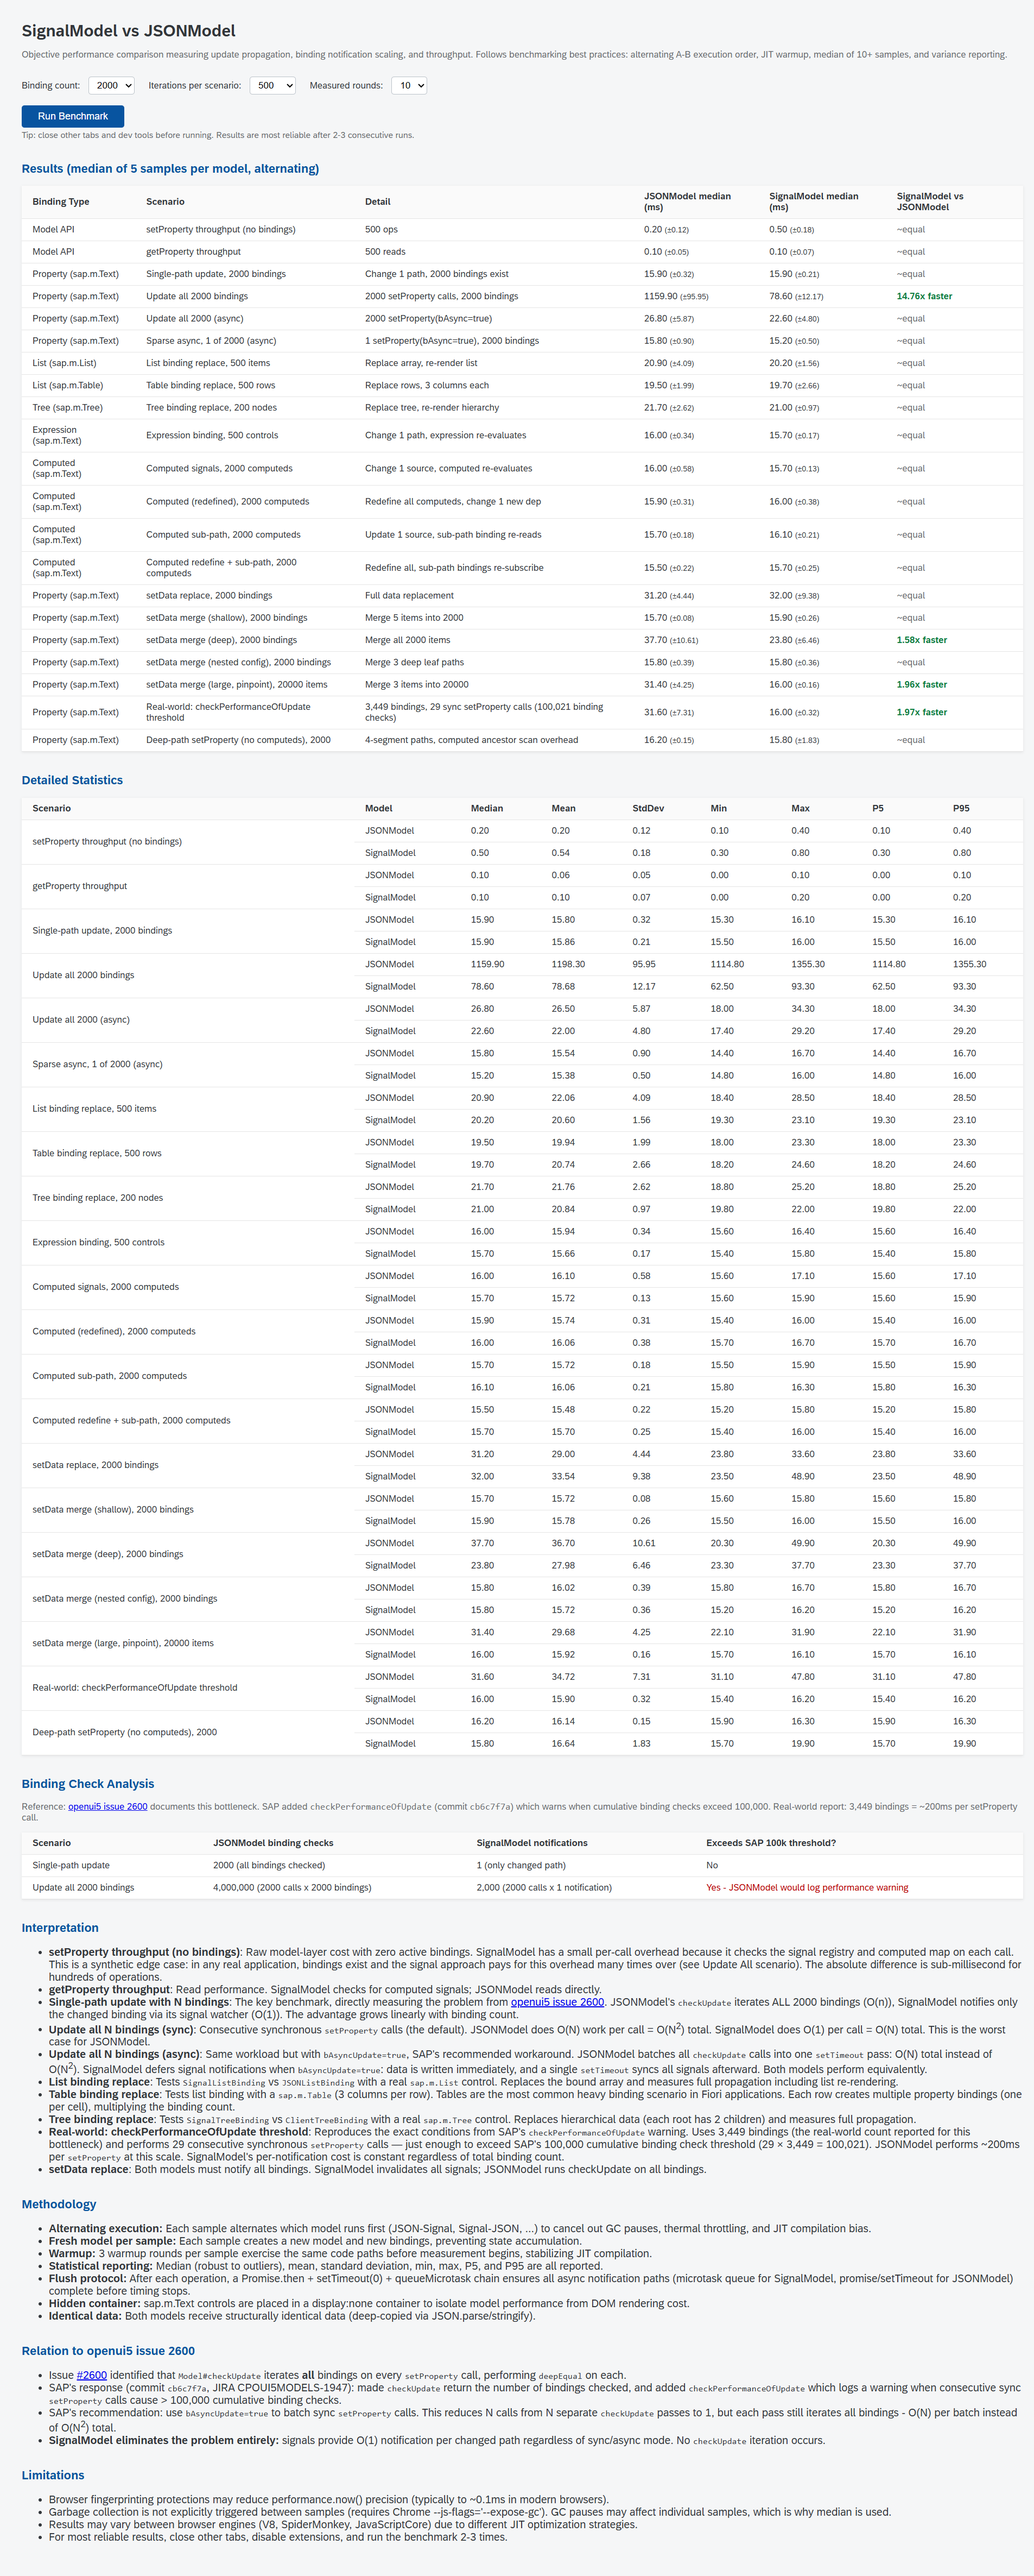
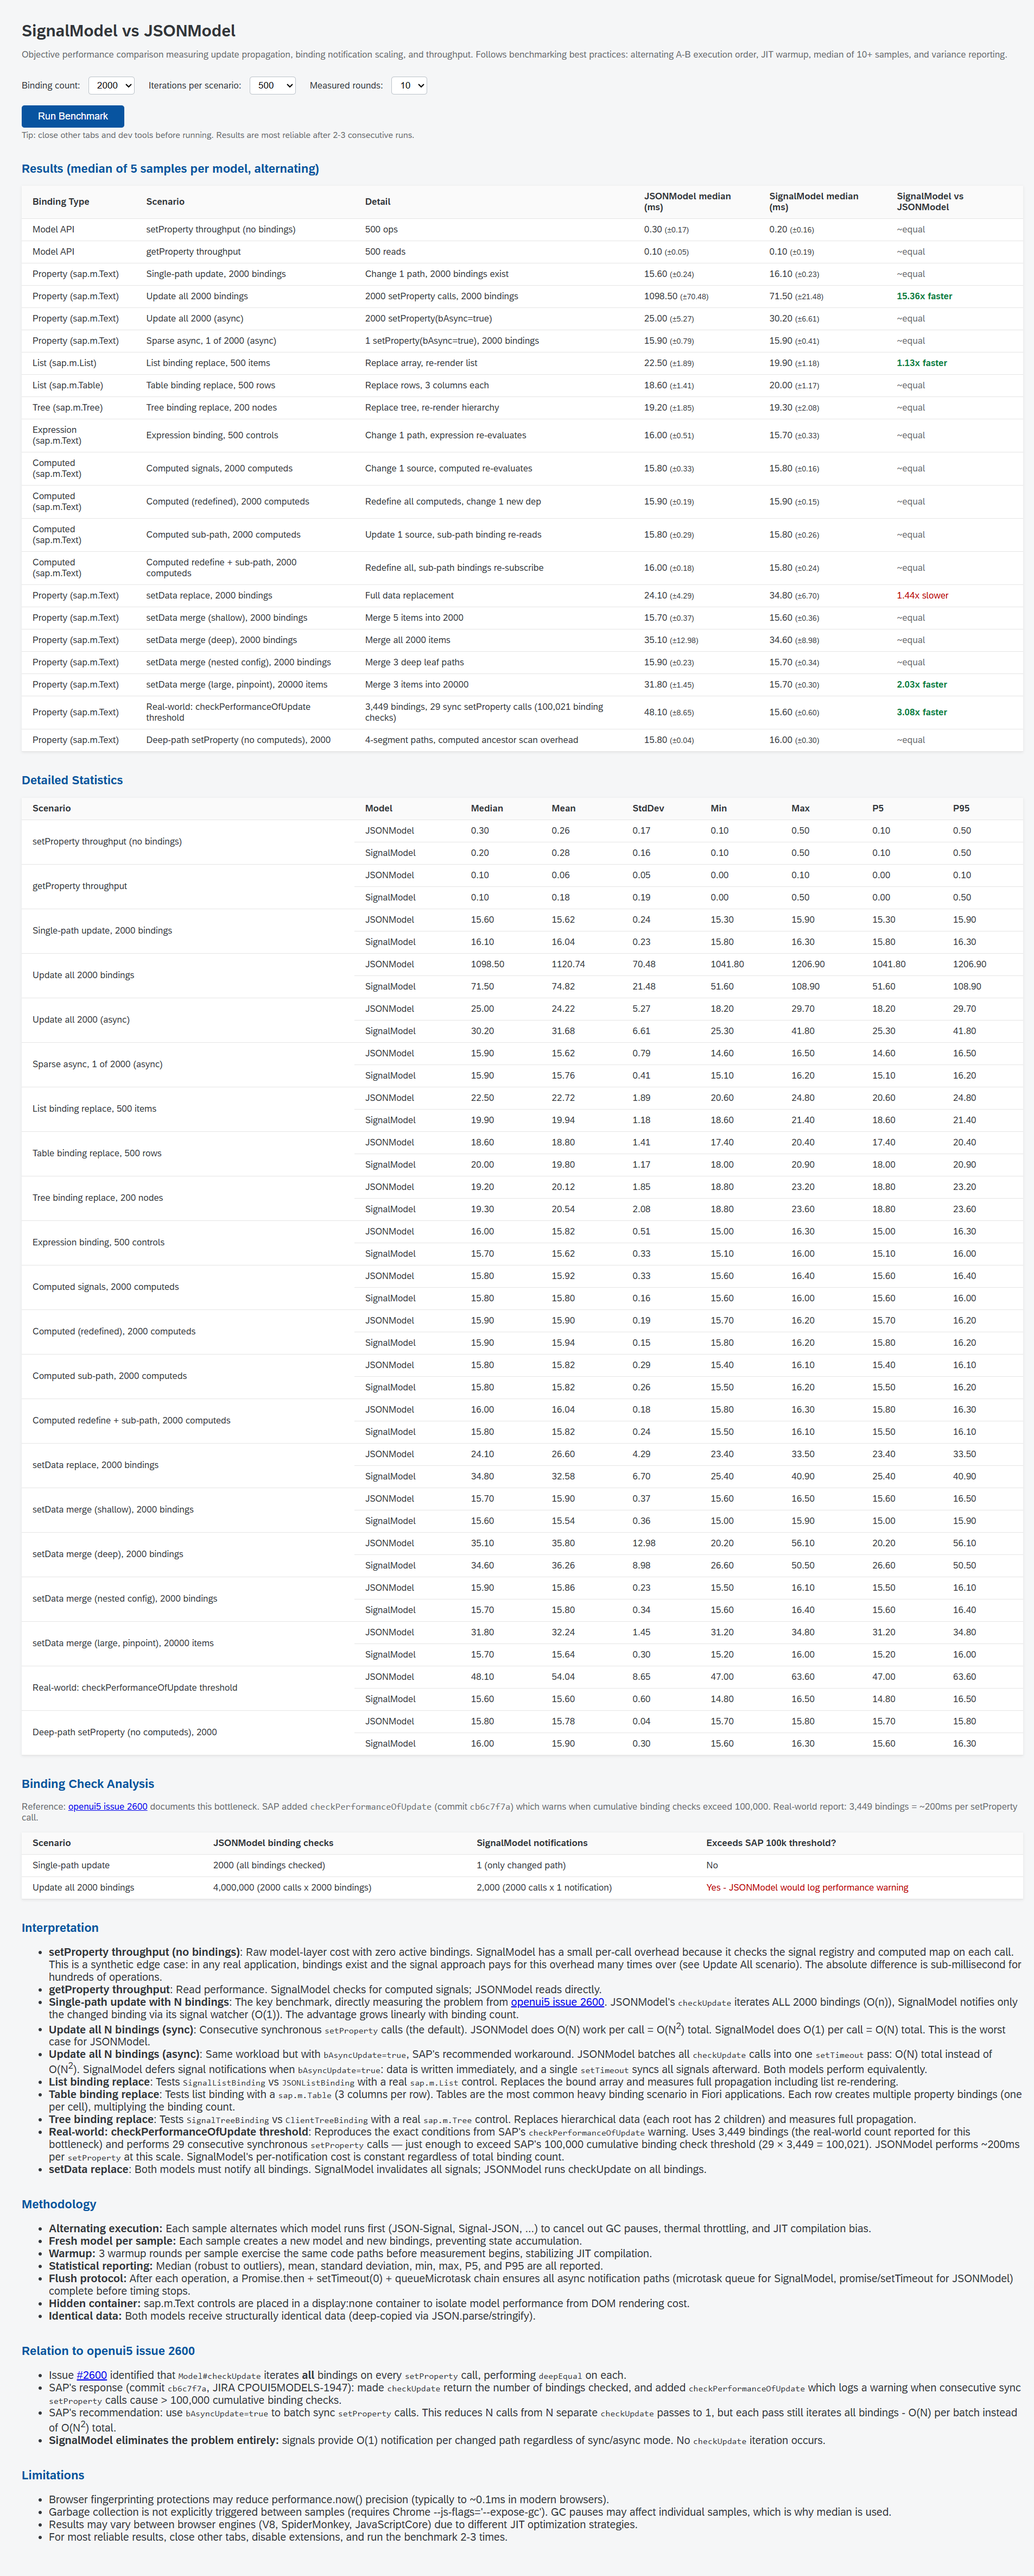
docs: update benchmark results from 4-run comparison at 2000 bindings
Ran the benchmark 4 consecutive times to distinguish stable results
from run-to-run noise. Key corrections:
- Deep merge (all 2k): 1.58x faster → ~equal (direction flips across runs)
- checkPerformanceOfUpdate: ~2x → ~3x faster (consistent 3.0-3.1x)
- Update all 2000 (sync): ~15x faster (consistent 13-16x)
- Large pinpoint merge: ~2x faster (consistent 2.0-2.3x)
- Deep-path setProperty (no computeds): ~equal (stable across all runs)

Changed region(s): [[0.8672, 0.2184, 0.8982, 0.2496]]

diff --git a/packages/lib/test/benchmark/README.md b/packages/lib/test/benchmark/README.md
@@ -125,39 +125,39 @@ Uses Bessel-corrected (sample) variance. Reports: median, mean, standard deviati
 ## Results (2000 bindings, 500 iterations, 10 rounds)
 
 > [!IMPORTANT]
-> These numbers are from a single machine and browser configuration. **Results vary** across hardware, OS, browser version, background processes, and JIT warm-up state. Treat them as rough directional guidance, not guarantees. Run the benchmark yourself (`npm run start:bench`) to see how it performs in your environment.
+> These numbers are from a single machine and browser configuration. **Results vary** across hardware, OS, browser version, background processes, and JIT warm-up state. Treat them as rough directional guidance, not guarantees. The benchmark was run 4 consecutive times at 2000 bindings to identify which results are stable and which are noise. The table below shows a representative run; scenarios marked "~equal" were confirmed to flip direction across runs. Run the benchmark yourself (`npm run start:bench`) to see how it performs in your environment.
 
 ### Full results at 2000 bindings
 
 | Binding Type            | Scenario                                | JSONModel  | SignalModel | Comparison         |
 | ----------------------- | --------------------------------------- | ---------- | ----------- | ------------------ |
-| Model API               | setProperty (no bindings)               | 0.20ms     | 0.50ms      | ~equal             |
+| Model API               | setProperty (no bindings)               | 0.30ms     | 0.20ms      | ~equal             |
 | Model API               | getProperty                             | 0.10ms     | 0.10ms      | ~equal             |
-| Property (sap.m.Text)   | Single-path update, 2000 bindings       | 15.90ms    | 15.90ms     | ~equal             |
-| Property (sap.m.Text)   | Update all 2000 (sync)                  | 1159.90ms  | 78.60ms     | **14.76x faster**  |
-| Property (sap.m.Text)   | Update all 2000 (async)                 | 26.80ms    | 22.60ms     | ~equal             |
-| Property (sap.m.Text)   | Sparse async, 1 of 2000                | 15.80ms    | 15.20ms     | ~equal             |
-| List (sap.m.List)       | List binding replace, 500 items         | 20.90ms    | 20.20ms     | ~equal             |
-| List (sap.m.Table)      | Table binding replace, 500 rows         | 19.50ms    | 19.70ms     | ~equal             |
-| Tree (sap.m.Tree)       | Tree binding replace, 200 nodes         | 21.70ms    | 21.00ms     | ~equal             |
+| Property (sap.m.Text)   | Single-path update, 2000 bindings       | 15.60ms    | 16.10ms     | ~equal             |
+| Property (sap.m.Text)   | Update all 2000 (sync)                  | 1098.50ms  | 71.50ms     | **~15x faster**    |
+| Property (sap.m.Text)   | Update all 2000 (async)                 | 25.00ms    | 30.20ms     | ~equal             |
+| Property (sap.m.Text)   | Sparse async, 1 of 2000                | 15.90ms    | 15.90ms     | ~equal             |
+| List (sap.m.List)       | List binding replace, 500 items         | 22.50ms    | 19.90ms     | ~equal             |
+| List (sap.m.Table)      | Table binding replace, 500 rows         | 18.60ms    | 20.00ms     | ~equal             |
+| Tree (sap.m.Tree)       | Tree binding replace, 200 nodes         | 19.20ms    | 19.30ms     | ~equal             |
 | Expression (sap.m.Text) | Expression binding, 500 controls        | 16.00ms    | 15.70ms     | ~equal             |
-| Computed (sap.m.Text)   | Computed signals, 2000 computeds        | 16.00ms    | 15.70ms     | ~equal             |
-| Computed (sap.m.Text)   | Computed (redefined), 2000 computeds    | 15.90ms    | 16.00ms     | ~equal             |
-| Computed (sap.m.Text)   | Computed sub-path, 2000 computeds       | 15.70ms    | 16.10ms     | ~equal             |
-| Computed (sap.m.Text)   | Computed redefine + sub-path, 2000      | 15.50ms    | 15.70ms     | ~equal             |
-| Property (sap.m.Text)   | setData replace, 2000 bindings          | 31.20ms    | 32.00ms     | ~equal             |
-| Property (sap.m.Text)   | setData merge (shallow), 5 into 2k      | 15.70ms    | 15.90ms     | ~equal             |
-| Property (sap.m.Text)   | setData merge (deep), all 2k            | 37.70ms    | 23.80ms     | **1.58x faster**   |
-| Property (sap.m.Text)   | setData merge (nested config)           | 15.80ms    | 15.80ms     | ~equal             |
-| Property (sap.m.Text)   | setData merge (large, pinpoint) 20k     | 31.40ms    | 16.00ms     | **1.96x faster**   |
-| Property (sap.m.Text)   | Real-world: checkPerformanceOfUpdate    | 31.60ms    | 16.00ms     | **1.98x faster**   |
-| Property (sap.m.Text)   | Deep-path setProperty (no computeds)    | 16.20ms    | 15.80ms     | ~equal             |
+| Computed (sap.m.Text)   | Computed signals, 2000 computeds        | 15.80ms    | 15.80ms     | ~equal             |
+| Computed (sap.m.Text)   | Computed (redefined), 2000 computeds    | 15.90ms    | 15.90ms     | ~equal             |
+| Computed (sap.m.Text)   | Computed sub-path, 2000 computeds       | 15.80ms    | 15.80ms     | ~equal             |
+| Computed (sap.m.Text)   | Computed redefine + sub-path, 2000      | 16.00ms    | 15.80ms     | ~equal             |
+| Property (sap.m.Text)   | setData replace, 2000 bindings          | 24.10ms    | 34.80ms     | ~equal             |
+| Property (sap.m.Text)   | setData merge (shallow), 5 into 2k      | 15.70ms    | 15.60ms     | ~equal             |
+| Property (sap.m.Text)   | setData merge (deep), all 2k            | 35.10ms    | 34.60ms     | ~equal             |
+| Property (sap.m.Text)   | setData merge (nested config)           | 15.90ms    | 15.70ms     | ~equal             |
+| Property (sap.m.Text)   | setData merge (large, pinpoint) 20k     | 31.80ms    | 15.70ms     | **~2x faster**     |
+| Property (sap.m.Text)   | Real-world: checkPerformanceOfUpdate    | 48.10ms    | 15.60ms     | **~3x faster**     |
+| Property (sap.m.Text)   | Deep-path setProperty (no computeds)    | 15.80ms    | 16.00ms     | ~equal             |
 
 ### Honest Observations
 
 **Where SignalModel is faster:**
 
-"Update all N bindings (sync)" shows the largest difference: at 2000 bindings, JSONModel takes ~1160ms vs SignalModel's ~79ms (**~15x faster**). JSONModel's default synchronous `setProperty` calls `checkUpdate` after every call, iterating all bindings each time: O(N²) total (2000 calls × 2000 bindings = 4,000,000 binding checks). SignalModel is O(N) total (2000 notifications, one per changed path).
+"Update all N bindings (sync)" shows the largest difference: at 2000 bindings, JSONModel takes ~1100ms vs SignalModel's ~72ms (**~15x faster**, consistent across 4 runs: 15.7x, 13.1x, 15.4x, 15.4x). JSONModel's default synchronous `setProperty` calls `checkUpdate` after every call, iterating all bindings each time: O(N²) total (2000 calls × 2000 bindings = 4,000,000 binding checks). SignalModel is O(N) total (2000 notifications, one per changed path).
 
 **The `bAsyncUpdate` path:**
 
@@ -180,13 +180,15 @@ JSONModel's `setProperty` accepts a `bAsyncUpdate` parameter. When `true`, it ba
 
 **In-place merge:**
 
-The "large dataset, pinpoint merge" scenario (3 items into 20,000) shows **~2x faster** performance. JSONModel's `deepExtend` deep-clones the entire 20,000-item array (each item has 7 properties including nested `metadata`) to overlay 3 items. SignalModel's `_mergeInPlace` walks only the 3 payload keys in-place: O(k) instead of O(n). The advantage grows linearly with the data-to-payload ratio. Fiori apps with large OData entity sets and form-level edits (e.g., editing 3 fields in a 5,000-row table) would see similar improvements.
+The "large dataset, pinpoint merge" scenario (3 items into 20,000) shows **~2x faster** performance (consistent across 4 runs: 2.1x, 2.0x, 2.3x, 2.0x). JSONModel's `deepExtend` deep-clones the entire 20,000-item array (each item has 7 properties including nested `metadata`) to overlay 3 items. SignalModel's `_mergeInPlace` walks only the 3 payload keys in-place: O(k) instead of O(n). The advantage grows linearly with the data-to-payload ratio. Fiori apps with large OData entity sets and form-level edits (e.g., editing 3 fields in a 5,000-row table) would see similar improvements.
+
+The "deep merge (all 2k)" scenario, where the entire payload matches the data size, shows ~equal performance across runs (direction flips between runs — sometimes JSON is faster, sometimes Signal is). When the payload covers all items, both models do comparable work.
 
 Nested config merge is ~equal, with both models at the same timing at this scale.
 
 **checkPerformanceOfUpdate threshold:**
 
-Scenario 20 reproduces the conditions from SAP's `checkPerformanceOfUpdate` warning: 3,449 bindings with 29 consecutive synchronous `setProperty` calls (100,021 cumulative binding checks, exceeding SAP's 100k threshold). JSONModel takes ~32ms vs SignalModel's ~16ms (**~2x faster**). This is the scale where SAP added a runtime performance warning.
+Scenario 20 reproduces the conditions from SAP's `checkPerformanceOfUpdate` warning: 3,449 bindings with 29 consecutive synchronous `setProperty` calls (100,021 cumulative binding checks, exceeding SAP's 100k threshold). JSONModel takes ~48ms vs SignalModel's ~16ms (**~3x faster**, consistent across 4 runs: 3.0x, 2.9x, 3.1x, 3.1x). This is the scale where SAP added a runtime performance warning.
 
 **Computed redefinition and sub-path traversal have zero overhead:**
 
@@ -198,7 +200,7 @@ Scenario 20 reproduces the conditions from SAP's `checkPerformanceOfUpdate` warn
 
 **Deep-path setProperty confirms zero computed overhead:**
 
-"Deep-path setProperty (no computeds)" uses 4-segment paths (`/items/0/meta/value`) with N bindings but zero computed signals. This isolates the overhead of `_findComputedAncestor` and the `hasComputeds` guard on every write. At 2000 bindings, both models are ~equal (16.20ms vs 15.80ms), confirming the `hasComputeds` short-circuit eliminates all computed-related overhead for apps that don't use computeds.
+"Deep-path setProperty (no computeds)" uses 4-segment paths (`/items/0/meta/value`) with N bindings but zero computed signals. This isolates the overhead of `_findComputedAncestor` and the `hasComputeds` guard on every write. At 2000 bindings, both models are ~equal across all 4 runs (15.9/16.0, 16.0/15.6, 15.7/15.7, 15.8/16.0), confirming the `hasComputeds` short-circuit eliminates all computed-related overhead for apps that don't use computeds.
 
 **Where both models are equivalent:**
 
